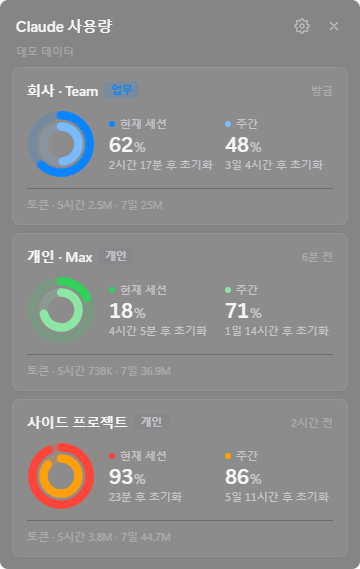
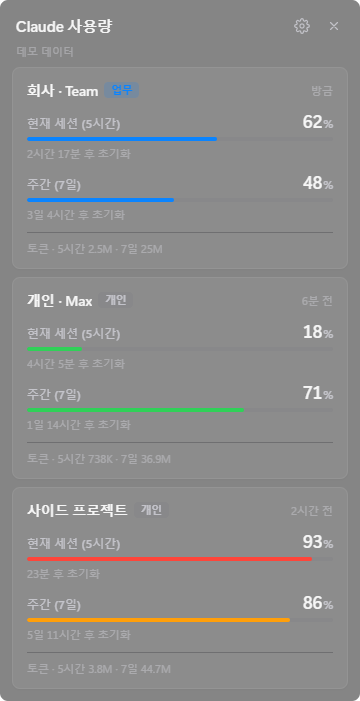
FEAT: RING에서 BAR 형태로 수정

diff --git a/src/renderer/components/AccountCard.tsx b/src/renderer/components/AccountCard.tsx
@@ -1,115 +1,107 @@
 import { api } from '../lib/api';
-import { innerTint, KIND_LABEL, levelColor } from '../lib/usage';
+import { KIND_LABEL, levelColor } from '../lib/usage';
 import { formatAgo, formatDuration, formatTokens } from '../../shared/format';
 import { CommandBox } from './CommandBox';
-import { UsageRings } from './UsageRings';
+import { UsageBar } from './UsageBar';
 import { useToast } from './Toast';
 import type { AccountView, Platform, UsageWindow } from '../../shared/types';
 
 interface MetricProps {
-  label: string;
-  window: UsageWindow;
-  color: string;
-  now: number;
+    label: string;
+    window: UsageWindow;
+    color: string;
+    now: number;
 }
 
 function Metric({ label, window: w, color, now }: MetricProps) {
-  let sub = '정보 없음';
-  if (w.hasReset) sub = '초기화됨';
-  else if (w.resetsAt) sub = `${formatDuration(w.resetsAt - now)} 후 초기화`;
-  return (
-    <div className="metric">
-      <div className="metric-label">
-        <i style={{ background: color }} />
-        {label}
-      </div>
-      <div className="metric-value">
-        {w.percent === null ? '—' : <>{Math.round(w.percent)}<small>%</small></>}
-      </div>
-      <div className="metric-sub">{sub}</div>
-    </div>
-  );
+    let sub = '정보 없음';
+    if (w.hasReset) sub = '초기화됨';
+    else if (w.resetsAt) sub = `${formatDuration(w.resetsAt - now)} 후 초기화`;
+    return (
+        <div className="metric">
+            <div className="metric-top">
+                <span className="metric-label">{label}</span>
+                <span className="metric-value">
+          {w.percent === null ? '—' : <>{Math.round(w.percent)}<small>%</small></>}
+        </span>
+            </div>
+            <UsageBar percent={w.percent} color={color} />
+            <div className="metric-sub">{sub}</div>
+        </div>
+    );
 }
 
 const BRIDGE_HINT = {
-  'no-config-dir': '설정 폴더가 아직 없습니다. 아래 명령으로 이 계정에 로그인해 주세요.',
-  'invalid-settings': 'settings.json 형식이 올바르지 않아 연결할 수 없습니다.',
-  missing: 'Claude Code 상태줄과 연결하면 사용량이 표시됩니다.',
+    'no-config-dir': '설정 폴더가 아직 없습니다. 아래 명령으로 이 계정에 로그인해 주세요.',
+    'invalid-settings': 'settings.json 형식이 올바르지 않아 연결할 수 없습니다.',
+    missing: 'Claude Code 상태줄과 연결하면 사용량이 표시됩니다.',
 } as const;
 
 interface AccountCardProps {
-  view: AccountView;
-  platform: Platform;
-  now: number;
+    view: AccountView;
+    platform: Platform;
+    now: number;
 }
 
 /** One account on the home screen: setup hints until data arrives, then rings and numbers. */
 export function AccountCard({ view: v, platform, now }: AccountCardProps) {
-  const toast = useToast();
-  const { account } = v;
+    const toast = useToast();
+    const { account } = v;
 
-  const head = (
-    <div className="card-head">
-      <span className="name">{account.name}</span>
-      <span className={`chip chip-${account.kind}`}>{KIND_LABEL[account.kind]}</span>
-      <span className="spacer" />
-      {v.capturedAt && <span className="ago">{formatAgo(now - v.capturedAt)}</span>}
-    </div>
-  );
-
-  if (v.bridge !== 'installed') {
-    const canInstall = v.bridge === 'missing' || v.bridge === 'no-config-dir';
-    return (
-      <section className="card">
-        {head}
-        <p className="hint">{BRIDGE_HINT[v.bridge]}</p>
-        {v.bridge === 'no-config-dir' && <CommandBox account={account} platform={platform} />}
-        {canInstall && (
-          <button
-            className="btn btn-tinted"
-            onClick={() => toast.report(api.installBridge(account.id), '상태줄을 연결했습니다')}
-          >
-            상태줄 연결
-          </button>
-        )}
-      </section>
-    );
-  }
-
-  if (!v.capturedAt) {
-    return (
-      <section className="card">
-        {head}
-        <p className="hint">
-          {v.noRateLimits
-            ? '이 계정은 한도 정보를 제공하지 않습니다. Pro / Max 구독 계정에서만 표시됩니다.'
-            : '연결됨. 이 계정으로 Claude Code에서 메시지를 한 번 보내면 표시됩니다.'}
-        </p>
-        {!v.noRateLimits && <CommandBox account={account} platform={platform} />}
-      </section>
-    );
-  }
-
-  const fiveColor = levelColor(v.fiveHour.percent, account.color);
-  const sevenColor = levelColor(v.sevenDay.percent, innerTint(account.color));
-  return (
-    <section className="card">
-      {head}
-      <div className="card-body">
-        <UsageRings
-          outer={{ percent: v.fiveHour.percent, color: fiveColor }}
-          inner={{ percent: v.sevenDay.percent, color: sevenColor }}
-        />
-        <div className="metrics">
-          <Metric label="현재 세션" window={v.fiveHour} color={fiveColor} now={now} />
-          <Metric label="주간" window={v.sevenDay} color={sevenColor} now={now} />
+    const head = (
+        <div className="card-head">
+            <span className="name">{account.name}</span>
+            <span className={`chip chip-${account.kind}`}>{KIND_LABEL[account.kind]}</span>
+            <span className="spacer" />
+            {v.capturedAt && <span className="ago">{formatAgo(now - v.capturedAt)}</span>}
         </div>
-      </div>
-      {v.tokens && (
-        <div className="foot">
-          토큰 · 5시간 {formatTokens(v.tokens.fiveHour)} · 7일 {formatTokens(v.tokens.sevenDay)}
-        </div>
-      )}
-    </section>
-  );
+    );
+
+    if (v.bridge !== 'installed') {
+        const canInstall = v.bridge === 'missing' || v.bridge === 'no-config-dir';
+        return (
+            <section className="card">
+                {head}
+                <p className="hint">{BRIDGE_HINT[v.bridge]}</p>
+                {v.bridge === 'no-config-dir' && <CommandBox account={account} platform={platform} />}
+                {canInstall && (
+                    <button
+                        className="btn btn-tinted"
+                        onClick={() => toast.report(api.installBridge(account.id), '상태줄을 연결했습니다')}
+                    >
+                        상태줄 연결
+                    </button>
+                )}
+            </section>
+        );
+    }
+
+    if (!v.capturedAt) {
+        return (
+            <section className="card">
+                {head}
+                <p className="hint">
+                    {v.noRateLimits
+                        ? '이 계정은 한도 정보를 제공하지 않습니다. Pro / Max 구독 계정에서만 표시됩니다.'
+                        : '연결됨. 이 계정으로 Claude Code에서 메시지를 한 번 보내면 표시됩니다.'}
+                </p>
+                {!v.noRateLimits && <CommandBox account={account} platform={platform} />}
+            </section>
+        );
+    }
+
+    return (
+        <section className="card">
+            {head}
+            <div className="metrics">
+                <Metric label="현재 세션 (5시간)" window={v.fiveHour} color={levelColor(v.fiveHour.percent, account.color)} now={now} />
+                <Metric label="주간 (7일)" window={v.sevenDay} color={levelColor(v.sevenDay.percent, account.color)} now={now} />
+            </div>
+            {v.tokens && (
+                <div className="foot">
+                    토큰 · 5시간 {formatTokens(v.tokens.fiveHour)} · 7일 {formatTokens(v.tokens.sevenDay)}
+                </div>
+            )}
+        </section>
+    );
 }

diff --git a/src/renderer/styles.css b/src/renderer/styles.css
@@ -217,63 +217,73 @@ button {
   font-variant-numeric: tabular-nums;
 }
 
-.card-body {
-  display: flex;
-  align-items: center;
-  gap: 14px;
-  margin-top: 10px;
-}
+/* Rings are still used for the empty-state illustration. */
 .rings {
-  width: 68px;
-  height: 68px;
   flex: none;
 }
 .ring-fill {
   transition: stroke-dasharray 0.6s cubic-bezier(0.3, 0.7, 0.2, 1);
 }
+
+/* ---------- usage bars ---------- */
 .metrics {
-  flex: 1;
-  display: grid;
-  grid-template-columns: 1fr 1fr;
-  gap: 8px;
+  display: flex;
+  flex-direction: column;
+  gap: 12px;
+  margin-top: 12px;
+}
+.metric-top {
+  display: flex;
+  align-items: baseline;
+  justify-content: space-between;
+  margin-bottom: 6px;
 }
 .metric-label {
-  display: flex;
-  align-items: center;
-  gap: 5px;
-  font-size: 11px;
+  font-size: 12px;
   font-weight: 500;
   color: var(--label-2);
 }
-.metric-label i {
-  width: 6px;
-  height: 6px;
-  border-radius: 50%;
-}
 .metric-value {
   font-family: var(--font-display);
-  font-size: 24px;
+  font-size: 20px;
   font-weight: 600;
   letter-spacing: -0.03em;
-  line-height: 1.15;
+  line-height: 1;
   font-variant-numeric: tabular-nums;
 }
 .metric-value small {
-  font-size: 14px;
+  font-size: 12px;
   font-weight: 500;
   color: var(--label-2);
   margin-left: 1px;
 }
 .metric-sub {
+  margin-top: 5px;
   font-size: 11px;
-  color: var(--label-2);
+  color: var(--label-3);
   font-variant-numeric: tabular-nums;
   white-space: nowrap;
 }
 .platform-win .metric-value {
   font-family: 'Segoe UI Variable Display', 'Segoe UI', sans-serif;
-  font-size: 22px;
+  font-size: 18px;
   letter-spacing: -0.01em;
+}
+
+.usage-bar {
+  height: 8px;
+  border-radius: 999px;
+  background: var(--fill);
+  overflow: hidden;
+}
+.usage-bar-fill {
+  height: 100%;
+  border-radius: inherit;
+  transition: width 0.6s cubic-bezier(0.3, 0.7, 0.2, 1);
+}
+.platform-win .usage-bar {
+  height: 4px;
+  border-radius: 2px;
 }
 
 .foot {

diff --git a/src/renderer/views/HomeView.tsx b/src/renderer/views/HomeView.tsx
@@ -12,11 +12,12 @@ interface HomeViewProps {
 
 export function HomeView({ state, onSettings, onAdd }: HomeViewProps) {
   const now = useNow();
+  const headerTitle = "클로드 사용량";
 
   if (state.accounts.length === 0) {
     return (
       <>
-        <Header title="Claude 사용량" onSettings={onSettings} />
+        <Header title={headerTitle} onSettings={onSettings} />
         <section className="card empty">
           <div className="empty-rings">
             <UsageRings
@@ -40,7 +41,7 @@ export function HomeView({ state, onSettings, onAdd }: HomeViewProps) {
 
   return (
     <>
-      <Header title="Claude 사용량" onSettings={onSettings} />
+      <Header title={headerTitle} onSettings={onSettings} />
       {state.demo && <div className="demo">데모 데이터</div>}
       <div className="list">
         {state.accounts.map((v) => (

diff --git a/src/renderer/components/UsageBar.tsx b/src/renderer/components/UsageBar.tsx
@@ -1,0 +1,15 @@
+interface UsageBarProps {
+    /** 0–100, or null when unknown (draws an empty track). */
+    percent: number | null;
+    color: string;
+}
+
+/** Horizontal progress bar for one usage window. */
+export function UsageBar({ percent, color }: UsageBarProps) {
+    const p = percent === null ? 0 : Math.max(0, Math.min(100, percent));
+    return (
+        <div className="usage-bar" role="progressbar" aria-valuenow={Math.round(p)} aria-valuemin={0} aria-valuemax={100}>
+            <div className="usage-bar-fill" style={{ width: `${p}%`, background: color }} />
+        </div>
+    );
+}

diff --git a/src/renderer/lib/usage.ts b/src/renderer/lib/usage.ts
@@ -14,11 +14,6 @@ export function levelColor(percent: number | null, base: string): string {
   return base;
 }
 
-/** The weekly (inner) ring uses a lighter tint of the account color, like Activity rings. */
-export function innerTint(color: string): string {
-  return `color-mix(in srgb, ${color} 55%, white)`;
-}
-
 /** The shell command that starts Claude Code with this account. */
 export function launchCommand(account: Account, platform: Platform): string {
   if (/[\\/]\.claude$/.test(account.configDir)) return 'claude';

diff --git a/README.md b/README.md
@@ -4,7 +4,7 @@
 
 <img src="docs/screenshot-windows.png" width="360" alt="위젯 스크린샷 (데모 데이터)">
 
-- 계정별 Activity 링: 바깥 = 현재 세션(5시간), 안쪽 = 주간(7일)
+- 계정별 Activity Bar
 - 초기화까지 남은 시간 실시간 카운트다운, 75% 주황 / 90% 빨강 경고
 - 로컬 트랜스크립트 기준 토큰 사용량(5시간 / 7일) 보조 표시
 - macOS: 반투명 vibrancy, SF Pro, iOS 그룹 리스트·스위치
